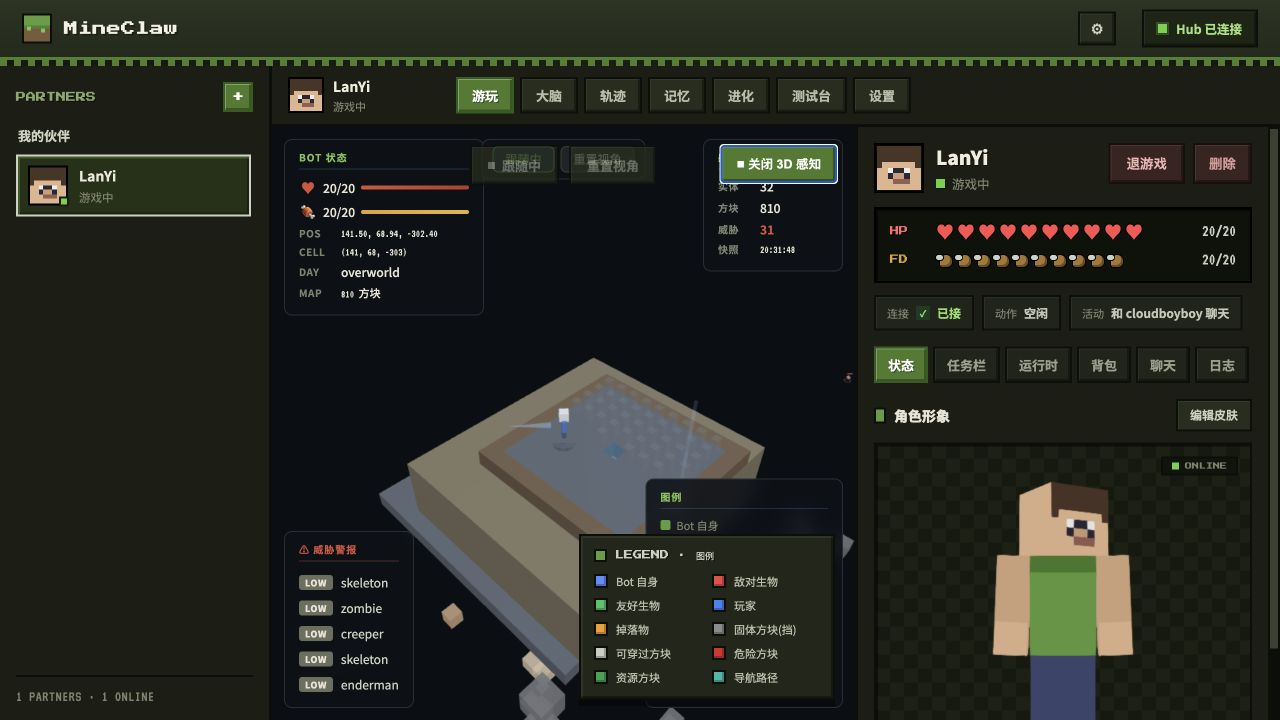
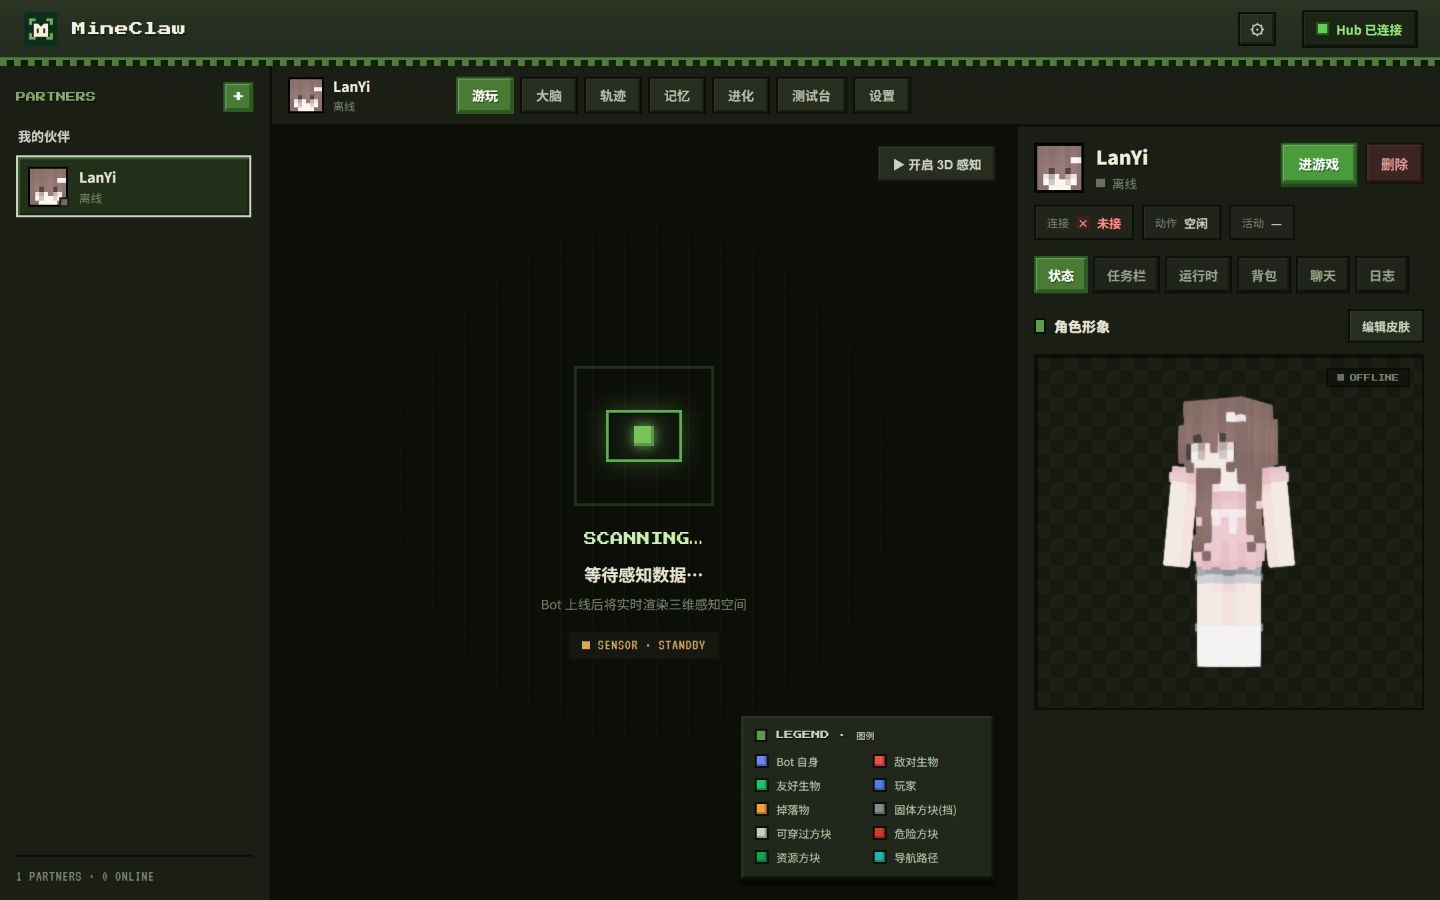
feat(site): refresh full product captures

diff --git a/apps/minefriend-site/src/main.js b/apps/minefriend-site/src/main.js
@@ -182,9 +182,9 @@ app.innerHTML = `
         <figure class="details-capture reveal">
           <div class="screen-frame live-capture">
             <div class="screen-chrome"><span></span><span></span><span></span><b>MINECLAW · COMPANION RELATIONSHIP</b><small>REAL PRODUCT CAPTURE</small></div>
-            <img src="./media/images/live-relationship.jpg" alt="MineClaw 当前演示伙伴配置中的熟悉游戏好友关系、共同经历和相处风格" loading="lazy" />
+            <img src="./media/images/live-relationship.jpg?v=20260827-112520" alt="MineClaw 最新伙伴配置页面，完整展示伙伴身份、性格和 AI Agent 配置" loading="lazy" />
           </div>
-          <figcaption><span>REAL 01</span><strong>关系不是一句宣传语</strong><p>当前角色卡明确记录“熟悉的游戏好友”、共同玩 Minecraft 的经历，以及平等、自然、可以主动邀约和表达不同意见的相处方式。</p></figcaption>
+          <figcaption><span>REAL 01</span><strong>每个伙伴都有自己的身份</strong><p>最新伙伴配置页完整展示名字、皮肤、性格描述与 AI Agent 选择；她如何说话、如何判断，都从清晰可见的设定开始。</p></figcaption>
         </figure>
       </div>
     </section>
@@ -264,16 +264,16 @@ app.innerHTML = `
             <p class="section-kicker light">真实截图不是装饰，而是一条从身体、感知到思考的证据链</p>
             <h2 id="screens-title">此刻她看见什么、带着什么，<br />我们都能一起看见。</h2>
           </div>
-          <p>下面八张画面全部来自真实运行中的 MineClaw。你能看见伙伴在 Minecraft 里的身体、实时坐标与感知、背包实物、聊天、行动过程、完成回执，以及她每一步思考留下的轨迹。</p>
+          <p>下面的画面来自当前 public/main 版本的真实界面。我们保留完整浏览器视野，不再裁掉侧栏、导航或关键状态；你能看见伙伴的身体，以及感知、背包、聊天、任务、角色卡与思考轨迹。</p>
         </div>
         <p class="capture-instance-note reveal"><strong>产品名称：MineClaw</strong><span>画面中的角色昵称仅是当前演示伙伴实例，不代表产品品牌。</span></p>
 
         <figure class="screen-feature live-evidence reveal">
           <div class="screen-frame live-capture perception-capture">
-            <div class="screen-chrome"><span></span><span></span><span></span><b>MINECLAW · LIVE COMPANION PERCEPTION</b><small>2026.08.23 · LIVE WORLD STATE</small></div>
-            <img src="./media/images/live-perception.jpg" alt="MineClaw 当前演示伙伴在本地训练服中的实时三维感知、生命饥饿、坐标、方块与实体状态" loading="lazy" />
+            <div class="screen-chrome"><span></span><span></span><span></span><b>MINECLAW · COMPANION PERCEPTION</b><small>CURRENT PUBLIC/MAIN · FULL VIEW</small></div>
+            <img src="./media/images/live-perception.jpg?v=20260827-112520" alt="MineClaw 最新游玩总览完整页面，展示伙伴列表、三维感知待机区和伙伴状态面板" loading="lazy" />
           </div>
-          <figcaption><span>02</span><strong>她此刻正在世界里看见什么</strong><p>实拍时 MineClaw 的演示伙伴在线：生命与饥饿均为 20，坐标、维度、附近 810 个方块、实体和威胁状态都从游戏实时读取；中央 3D 场景就是她正在感知的周围世界。</p></figcaption>
+          <figcaption><span>02</span><strong>她此刻能看见什么，一目了然</strong><p>最新游玩总览把伙伴列表、三维感知区与实时状态放在同一屏。截图使用安全的离线演示实例，因此如实显示感知待机状态；伙伴上线后，这里会渲染她正在感知的周围世界。</p></figcaption>
         </figure>
 
         <div class="screen-pair">
@@ -286,44 +286,44 @@ app.innerHTML = `
           </figure>
           <figure class="screen-inventory reveal">
             <div class="screen-frame live-capture inventory-capture">
-              <div class="screen-chrome"><span></span><span></span><span></span><b>MINECLAW · LIVE COMPANION INVENTORY</b><small>LIVE WORLD STATE</small></div>
-              <img src="./media/images/live-inventory.jpg" alt="MineClaw 当前演示伙伴在本地训练服的实时背包中可见小麦和种子等实物" loading="lazy" />
+              <div class="screen-chrome"><span></span><span></span><span></span><b>MINECLAW · COMPANION INVENTORY</b><small>CURRENT PUBLIC/MAIN · FULL VIEW</small></div>
+              <img src="./media/images/live-inventory.jpg?v=20260827-112520" alt="MineClaw 最新背包页面完整视图，保留三维感知区和右侧背包面板" loading="lazy" />
             </div>
-            <figcaption><span>04</span><strong>行动会在背包里留下实物</strong><p>采集时刻的背包里可见 31 个小麦与两组共 102 个种子。这里证明的是实时物品状态可见，不把当时仍失败的完整收割任务包装成成功。</p></figcaption>
+            <figcaption><span>04</span><strong>行动会在背包里留下实物</strong><p>背包页和伙伴当前状态同屏呈现。演示伙伴未上线时，界面明确显示“暂无背包数据”；连接世界后，采集、制作和整理留下的真实物品会出现在这里。</p></figcaption>
           </figure>
         </div>
 
         <div class="screen-pair conversation-pair">
           <figure class="screen-chat reveal">
-            <div class="screen-frame portrait-frame">
-              <div class="screen-chrome"><span></span><span></span><span></span><b>CONVERSATION</b><small>REAL PRODUCT CAPTURE</small></div>
-              <img src="./media/images/mineclaw-companion-chat.png" alt="MineClaw 当前演示伙伴在控制台中汇报寻找木头的真实聊天画面" loading="lazy" />
+            <div class="screen-frame webui-capture">
+              <div class="screen-chrome"><span></span><span></span><span></span><b>CONVERSATION</b><small>CURRENT PUBLIC/MAIN · FULL VIEW</small></div>
+              <img src="./media/images/mineclaw-companion-chat.png?v=20260827-112520" alt="MineClaw 最新聊天页面完整视图，包含伙伴、感知和聊天输入区域" loading="lazy" />
             </div>
-            <figcaption><span>05</span><strong>做事时，我们也一直在说话</strong><p>她能回应你的话，也会在共同做事时告诉你正在找什么、做到哪一步；行动不会让这个伙伴突然变成无声脚本。</p></figcaption>
+            <figcaption><span>05</span><strong>一起做事，也一直保持对话</strong><p>聊天页始终与伙伴当前状态相连。离线实例会禁用输入并保留清晰提示；连接后，她能回应你的话，也能在共同做事时持续汇报进展。</p></figcaption>
           </figure>
           <figure class="screen-running reveal">
-            <div class="screen-frame workbench-crop">
-              <div class="screen-chrome"><span></span><span></span><span></span><b>LIVE WORKBENCH</b><small>REAL PRODUCT CAPTURE</small></div>
-              <img src="./media/images/task-workbench-running.jpg" alt="MineClaw 控制台展示伙伴正在推进收集橡木任务和实时子步骤" loading="lazy" />
+            <div class="screen-frame webui-capture">
+              <div class="screen-chrome"><span></span><span></span><span></span><b>TASK WORKBENCH</b><small>CURRENT PUBLIC/MAIN · FULL VIEW</small></div>
+              <img src="./media/images/task-workbench-running.jpg?v=20260827-112520" alt="MineClaw 最新任务栏完整视图，展示任务汇总和运行时状态" loading="lazy" />
             </div>
-            <figcaption><span>06</span><strong>一起做的事有过程</strong><p>说好一个目标后，可以看到 MineClaw 里的伙伴正在推进哪一步、遇到了什么，而不是等一个无法验证的口头答案。</p></figcaption>
+            <figcaption><span>06</span><strong>一起做的事有过程</strong><p>任务栏同时展示进行中、暂停与归档数量。当前演示实例未启动运行时，页面如实给出可重试的空状态；运行后，每一步进展与遇到的问题都会留在这里。</p></figcaption>
           </figure>
         </div>
 
         <figure class="screen-feature completed-screen reveal">
-          <div class="screen-frame">
-            <div class="screen-chrome"><span></span><span></span><span></span><b>MINECLAW · COMPLETION RECEIPT</b><small>REAL PRODUCT CAPTURE</small></div>
-            <img src="./media/images/task-workbench-completed.jpg" alt="任务完成后 MineClaw 工作台清空当前任务并增加归档计数" loading="lazy" />
+          <div class="screen-frame webui-capture">
+            <div class="screen-chrome"><span></span><span></span><span></span><b>MINECLAW · COMPANION ROLE CARD</b><small>CURRENT PUBLIC/MAIN · FULL VIEW</small></div>
+            <img src="./media/images/live-role-card.jpg?v=20260827-112520" alt="MineClaw 最新角色卡完整页面，展示身份、背景、人格和表达方式" loading="lazy" />
           </div>
-          <figcaption><span>07</span><strong>共同完成的事有结果</strong><p>背包数量、方块位置、容器内容或玩家距离没有达标，她就不能把一句“完成了”当作结果。达到目标后，任务才进入归档，成为你们真正完成过的共同经历。</p></figcaption>
+          <figcaption><span>07</span><strong>她不只是一套能力，也有完整角色</strong><p>角色卡把身份、背景、自我认知、人格、价值观和边界放在同一处。你可以看见这个伙伴如何认识自己，也能决定你们要以怎样的关系相处。</p></figcaption>
         </figure>
 
         <figure class="screen-feature trace-screen reveal">
           <div class="screen-frame live-capture trace-capture">
-            <div class="screen-chrome"><span></span><span></span><span></span><b>MINECLAW · COMPANION THOUGHT TRACE</b><small>REAL PRODUCT CAPTURE</small></div>
-            <img src="./media/images/live-trace.jpg" alt="MineClaw 当前演示伙伴的大脑轨迹工作台展示回合、模型调用和事件账本" loading="lazy" />
+            <div class="screen-chrome"><span></span><span></span><span></span><b>MINECLAW · COMPANION THOUGHT TRACE</b><small>CURRENT PUBLIC/MAIN · FULL VIEW</small></div>
+            <img src="./media/images/live-trace.jpg?v=20260827-112520" alt="MineClaw 当前演示伙伴的大脑轨迹工作台展示回合、模型调用和事件账本" loading="lazy" />
           </div>
-          <figcaption><span>08</span><strong>连她怎么理解、怎么选择，也能回看</strong><p>当前轨迹工作台记录了 152 个回合、980 次模型调用，并能继续下钻事件账本。陪伴不再依赖黑箱，每次理解、调用和恢复都有迹可循。</p></figcaption>
+          <figcaption><span>08</span><strong>连她怎么理解、怎么选择，也能回看</strong><p>轨迹工作台完整呈现筛选、会话、事件账本与调用检查器。未运行时会明确显示服务状态；运行后，每次理解、调用和恢复都能沿事件链继续下钻。</p></figcaption>
         </figure>
       </div>
     </section>

diff --git a/apps/minefriend-site/src/style.css b/apps/minefriend-site/src/style.css
@@ -273,21 +273,20 @@ img, video { max-width: 100%; }
 .screen-chrome b { margin-left: 8px; font: 800 8px/1 var(--mono); letter-spacing: 0.08em; }
 .screen-chrome small { margin-left: auto; font: 700 8px/1 var(--mono); }
 .screen-frame img { display: block; width: 100%; }
-.live-capture img { aspect-ratio: 16 / 10; object-fit: cover; object-position: top; }
-.perception-capture img { aspect-ratio: 16 / 9; }
+.live-capture img, .webui-capture img { height: auto; aspect-ratio: auto; object-fit: contain; object-position: center; }
 .screen-feature figcaption, .screen-pair figcaption { display: grid; grid-template-columns: 36px 220px 1fr; gap: 18px; align-items: start; margin-top: 31px; }
 figcaption > span { color: var(--amber); font: 800 9px/1 var(--mono); }
 figcaption > strong { font-size: 16px; }
 figcaption > p { max-width: 490px; margin: 0; color: rgba(246, 240, 228, 0.52); font-size: 12px; line-height: 1.7; }
-.screen-pair { display: grid; grid-template-columns: 1.18fr 0.82fr; gap: 70px; align-items: end; margin-top: 78px; }
-.portrait-frame { width: min(100%, 500px); margin: 0 auto; }
-.portrait-frame img { max-height: 720px; object-fit: cover; object-position: top; }
+.screen-pair { display: grid; grid-template-columns: 1fr; gap: 78px; align-items: start; margin-top: 78px; }
+.portrait-frame { width: 100%; margin: 0 auto; }
+.portrait-frame img { height: auto; object-fit: contain; object-position: center; }
 .screen-pair figcaption { grid-template-columns: 34px 1fr; row-gap: 8px; }
 .screen-pair figcaption p { grid-column: 2; }
-.conversation-pair { grid-template-columns: 0.78fr 1.22fr; align-items: start; }
+.conversation-pair { grid-template-columns: 1fr; align-items: start; }
 .conversation-pair .portrait-frame { width: 100%; }
-.conversation-pair .portrait-frame img, .workbench-crop img { aspect-ratio: 4 / 3; object-fit: cover; object-position: top; }
-.inventory-capture img { aspect-ratio: 1 / 1; }
+.conversation-pair .portrait-frame img, .workbench-crop img { height: auto; aspect-ratio: auto; object-fit: contain; object-position: center; }
+.inventory-capture img { height: auto; aspect-ratio: auto; }
 .screen-inventory figcaption p { padding: 10px 12px; border-left: 2px solid var(--amber); background: rgba(212, 146, 50, 0.08); color: rgba(246, 240, 228, 0.67); }
 .world-shot { position: relative; overflow: hidden; border: 1px solid rgba(246, 240, 228, 0.16); background: #0d110d; }
 .world-shot img { display: block; width: 100%; max-height: 720px; object-fit: cover; object-position: center; filter: saturate(0.86) contrast(1.03); }
@@ -296,7 +295,7 @@ figcaption > p { max-width: 490px; margin: 0; color: rgba(246, 240, 228, 0.52); 
 .world-shot-tag i { width: 6px; height: 6px; background: var(--moss-bright); }
 .completed-screen { margin-top: 130px; }
 .trace-screen { margin-top: 130px; }
-.trace-capture img { aspect-ratio: 16 / 9; }
+.trace-capture img { height: auto; aspect-ratio: auto; }
 
 .demo-section { padding: 155px 0; }
 .early-demo { padding-top: 112px; padding-bottom: 132px; }
